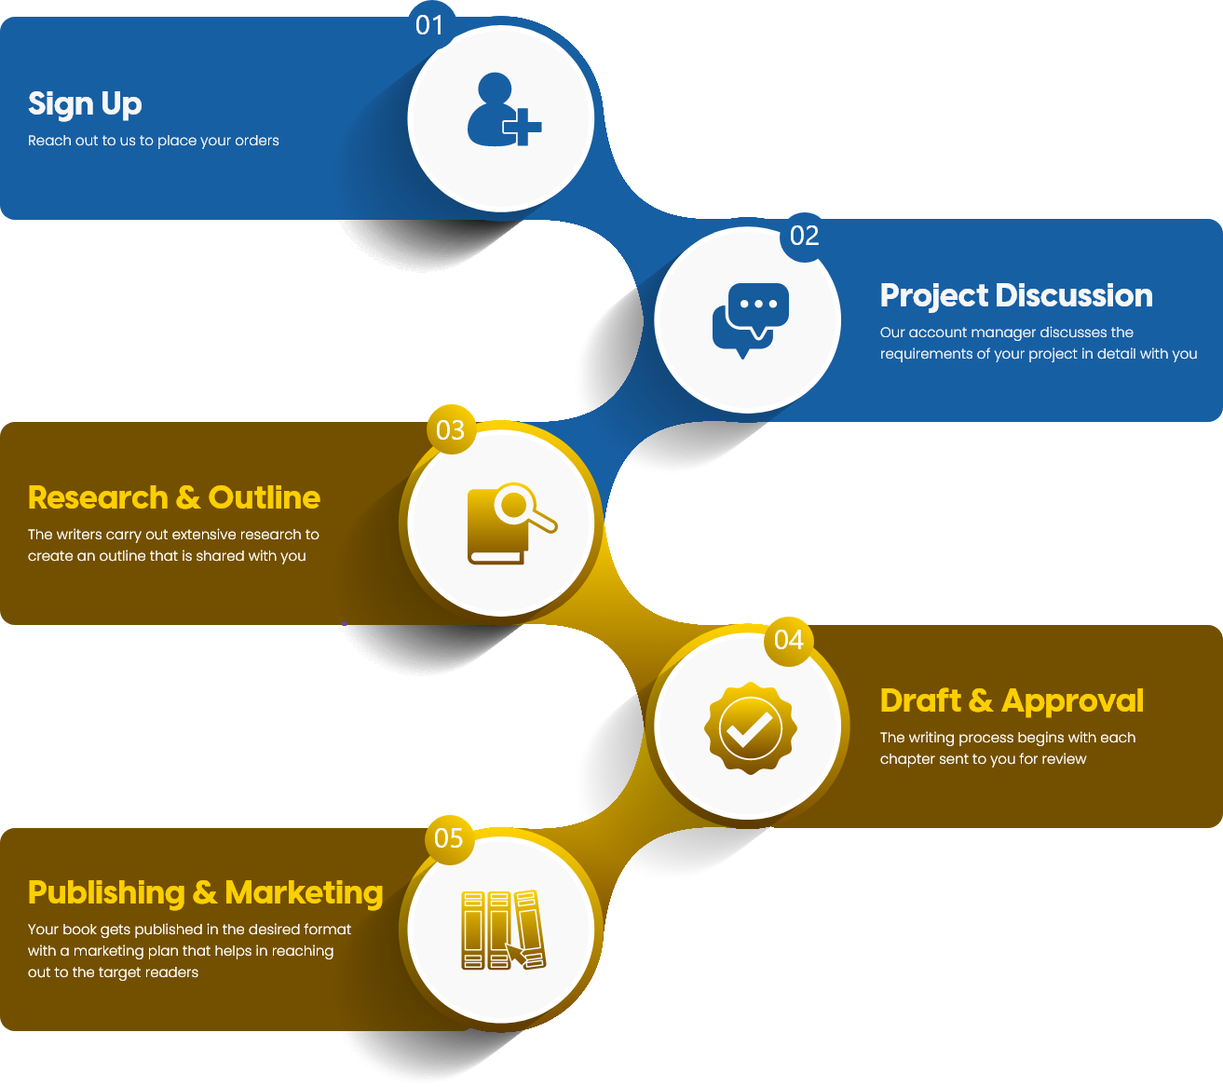
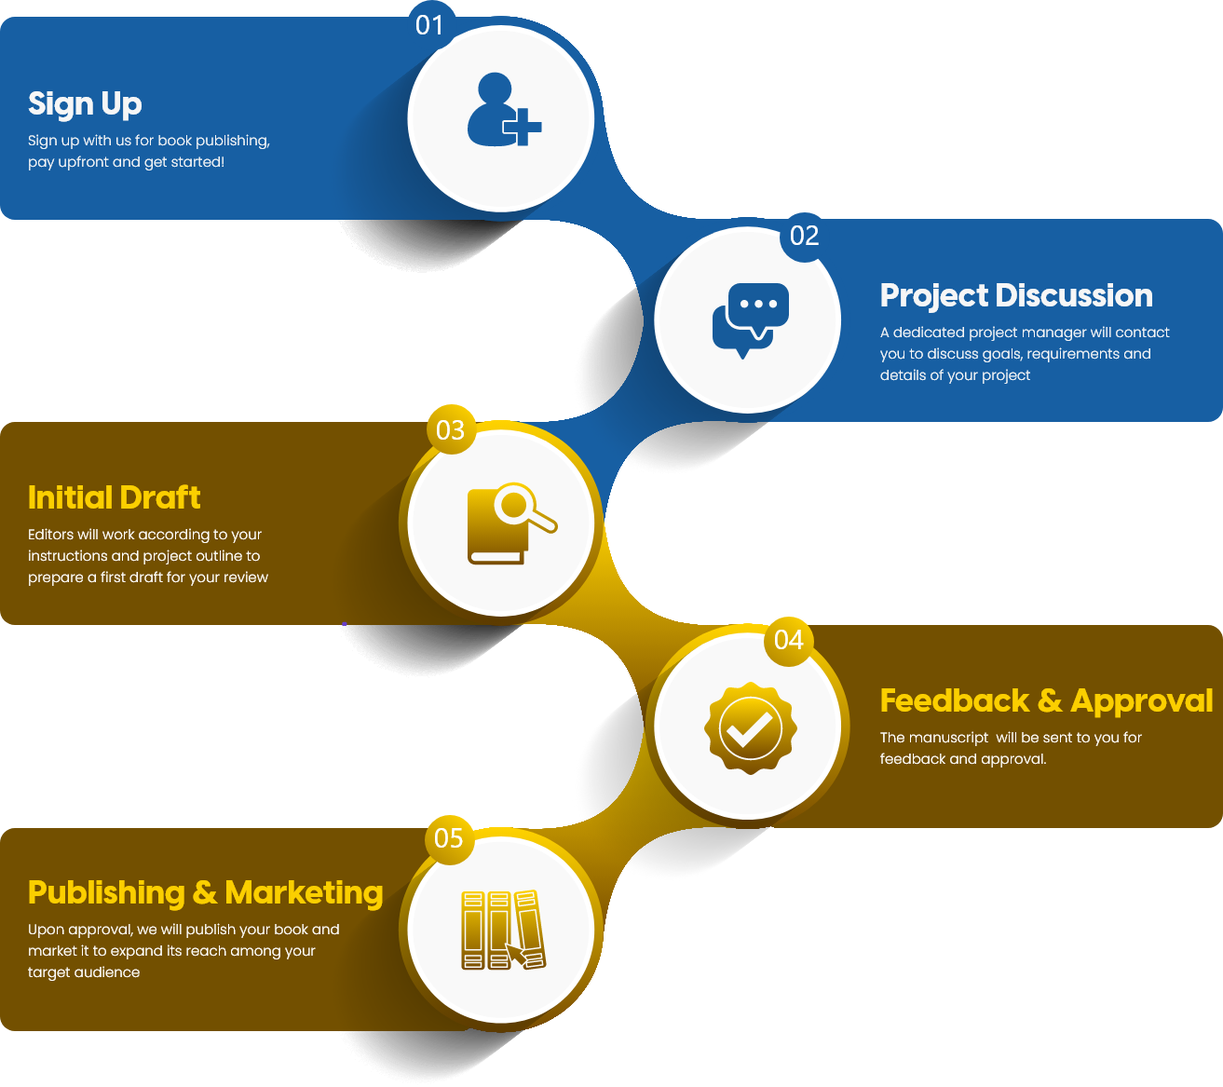
add new lg and change content

diff --git a/20-12-2023-lp/index.html b/20-12-2023-lp/index.html
@@ -26,6 +26,17 @@
 </head>
 
 <body>
+    <noscript><img height="1" width="1" style="display:none"
+            src="https://q.quora.com/_/ad/56e841106452449793188343e9307abf/pixel?tag=ViewContent&noscript=1" /></noscript>
+    <!-- End of Quora Pixel Code -->
+    <noscript><img height="1" width="1" style="display:none"
+            src="https://www.facebook.com/tr?id=446782904018039&ev=PageView&noscript=1"
+            alt="bookwritingcube.com" /></noscript>
+    <!-- Google Tag Manager (noscript) -->
+    <noscript><iframe src="https://www.googletagmanager.com/ns.html?id=GTM-KM5VM3H" height="0" width="0"
+            style="display:none;visibility:hidden"></iframe>
+    </noscript>
+    <!-- End Google Tag Manager (noscript) -->
     <!-- Header -->
     <header>
         <div class="container-fluid">
@@ -192,15 +203,14 @@
                     <div class="row">
                         <div class="col-lg-7 col-md-10 col-12">
                             <div class="__content">
-                                <span>Write, refine, and publish your book with our book publishing service in
-                                    US.</span>
-                                <h1>Tell Your Story To The World With Our <br class="d-lg-block d-none" /> Professional
-                                    Book Publishing Service </h1>
-                                <p>There are thousands of writers who pour their heart and soul into writing a
-                                    manuscript, <br /> editing it but they are not able to publish their work due to
-                                    some odd reasons, a major <br /> publishing house may have rejected them for. We
-                                    provide publishing services for those <br /> aspiring writers and make their dream
-                                    of becoming a published author come true. </p>
+                                <span>Top Book Marketing Company Trusted by Self Published Authors</span>
+                                <h1>Looking for Book Marketing Service for <br class="d-lg-block d-none" /> Your Newly
+                                    Self-Published Book?</h1>
+                                <p>Book Writing Cube is the best at making your book famous! Our team knows exactly how
+                                    <br class="d-lg-block d-none" /> to create buzz about your book among your audience.
+                                    We've got different pricing plans for <br class="d-lg-block d-none" /> new and
+                                    successful authors. It doesn't matter what kind of book you wrote, we've got amazing
+                                    <br class="d-lg-block d-none" /> ideas to make sure everyone hears about it.</p>
                                 <div class="__heroAnchor d-flex flex-md-nowrap flex-wrap mt-lg-4">
                                     <a href="#" data-toggle="modal" data-target="#mypopupdiscuss"
                                         rel="noopener noreferrer" class="__secondaryBtn">Get Free Consultation</a>
@@ -250,9 +260,10 @@
                     <div class="row">
                         <div class="col-md-10 col-12">
                             <div class="__content">
-                                <h2>Our Four Step Book Publishing Process</h2>
-                                <p>At our book publishing company, we focus on timely delivery as per agreed upon
-                                    project <br class="d-lg-block d-none" /> timeline.</p>
+                                <h2>Our Book Marketing Company Helps Readers Find <br class="d-lg-block d-none" /> Your
+                                    Book Among The Top of The Pile </h2>
+                                <p>Our book marketing service experts make sure to create a promotion strategy that
+                                    increases your book sales tremendously. </p>
                             </div>
                         </div>
                     </div>
@@ -263,9 +274,8 @@
                                     <img src="/images/ar-lp/book1.png" alt="Icons" class="d-block mx-auto img-fluid">
                                 </div>
                                 <div class="__content text-center">
-                                    <h4>Book Writing </h4>
-                                    <p>Our book writers come up <br /> with compelling narratives <br /> for your
-                                        stories</p>
+                                    <h4>Audience Research</h4>
+                                    <p>Our book marketing strategy <br /> is customized to target <br /> audience.</p>
                                 </div>
                             </div>
                         </div>
@@ -275,8 +285,8 @@
                                     <img src="/images/ar-lp/ceaser.png" alt="Icons" class="d-block mx-auto img-fluid">
                                 </div>
                                 <div class="__content text-center">
-                                    <h4>Editing</h4>
-                                    <p>Our book editors polish the <br /> books for publishing </p>
+                                    <h4>Engaging Content</h4>
+                                    <p>We create captivating <br /> book material</p>
                                 </div>
                             </div>
                         </div>
@@ -286,8 +296,8 @@
                                     <img src="/images/ar-lp/book2.png" alt="Icons" class="d-block mx-auto img-fluid">
                                 </div>
                                 <div class="__content text-center">
-                                    <h4>Book Publishing</h4>
-                                    <p>We publish the book on <br /> your desired platform</p>
+                                    <h4>Multichannel Marketing</h4>
+                                    <p>We utilize multiple channels <br /> for book marketing</p>
                                 </div>
                             </div>
                         </div>
@@ -297,8 +307,8 @@
                                     <img src="/images/ar-lp/book4.png" alt="Icons" class="d-block mx-auto img-fluid">
                                 </div>
                                 <div class="__content text-center">
-                                    <h4>Ebook Writing</h4>
-                                    <p>We make your book accessible <br /> to readers globally </p>
+                                    <h4>Ebook Sales</h4>
+                                    <p>We Track progress and adjust <br /> strategy to increase book <br /> sales</p>
                                 </div>
                             </div>
                         </div>
@@ -312,10 +322,10 @@
                     <div class="row align-items-center">
                         <div class="col-lg-7 col-md-6 col-12">
                             <div class="__content">
-                                <h2>Providing the Best Publishing Services</h2>
-                                <h3>Our Book Publishing Company Is a Top Solution For Professional Publishing</h3>
-                                <p>We are honored to serve you with the best publishing services in the US, all you have
-                                    to do is reach out to us!</p>
+                                <h2>Spread the Word About Your Book</h2>
+                                <h3>Hire us to tell everyone your book is now available to read!</h3>
+                                <p>Our book marketing experts make your ebook visible to your target audience and spark
+                                    their interest to buy, read and review your book on digital platforms.</p>
                                 <div class="__whoKnowsBtn d-flex flex-lg-nowrap flex-wrap">
                                     <a href="#" data-toggle="modal" data-target="#mypopupdiscuss"
                                         rel="noopener noreferrer" class="__secondaryBtn">Get Free Proposal</a>
@@ -346,8 +356,8 @@
                                 <h2>We Tell Your Story <br class="d-lg-block d-none" /> To The World </h2>
                                 <p>Sign up now to avail up to 30% Off on our publishing packages.</p>
                                 <div class="__wordsYouThoughtsBtn d-flex flex-lg-nowrap flex-wrap">
-                                    <a href="#" data-toggle="modal" data-target="#mypopupdiscuss"
-                                        rel="noopener noreferrer" class="__secondaryBtn">Get Free Consultation</a>
+                                    <a href="#" data-toggle="modal" data-target="#mypopupdiscuss" rel="noopener"
+                                        class="__secondaryBtn">Get Free Consultation</a>
                                     <a href="javascript:;" class="__primaryBtn"
                                         onclick="parent.LC_API.open_chat_window();return false;">Publish My Book</a>
                                 </div>
@@ -376,9 +386,9 @@
                     <div class="row">
                         <div class="col-12">
                             <div class="__content text-center">
-                                <h2>Contact our Book Publishing Company</h2>
-                                <p>Let us guide you to choose the most suitable publishing package and platform for your
-                                    book.</p>
+                                <h2>Contact our Book Marketing Company</h2>
+                                <p class="mb-3">Let us guide you to choose the most suitable book marketing package and
+                                    <br /> platform for your ebook.</p>
                                 <a href="javascript:;" class="__primaryBtn"
                                     onclick="parent.LC_API.open_chat_window();return false;">Let's Discuss</a>
                             </div>
@@ -403,7 +413,7 @@
                                 <img src="/images/ar-lp/book-writing .png" alt="Icons" class="d-block mx-auto">
                                 <div class="__content text-center">
                                     <h4>Ebook Publishing</h4>
-                                    <p>Publish your ebooks effortlessly with us</p>
+                                    <p>Market your ebooks with us on a budget</p>
                                 </div>
                             </div>
                         </div>
@@ -412,7 +422,7 @@
                                 <img src="/images/ar-lp/trade-books.png" alt="Icons" class="d-block mx-auto">
                                 <div class="__content text-center">
                                     <h4>Autobiographies</h4>
-                                    <p>We make your life a published masterpiece</p>
+                                    <p>We introduce your life stories to the world</p>
                                 </div>
                             </div>
                         </div>
@@ -421,7 +431,7 @@
                                 <img src="/images/ar-lp/magazines.png" alt="Icons" class="d-block mx-auto">
                                 <div class="__content text-center">
                                     <h4>Children Books</h4>
-                                    <p>Kids’ stories made into magical books</p>
+                                    <p>Spread the word about kids’ new best reads</p>
                                 </div>
                             </div>
                         </div>
@@ -430,7 +440,7 @@
                                 <img src="/images/ar-lp/photo-books.png" alt="Icons" class="d-block mx-auto">
                                 <div class="__content text-center">
                                     <h4>Photo Books</h4>
-                                    <p>Turn your memories into photo books with us</p>
+                                    <p>Promote your photo books with us across social media</p>
                                 </div>
                             </div>
                         </div>
@@ -439,7 +449,7 @@
                                 <img src="/images/ar-lp/flip books.png" alt="Icons" class="d-block mx-auto">
                                 <div class="__content text-center">
                                     <h4>Fiction Books</h4>
-                                    <p>Share your imaginative tales with readers globally</p>
+                                    <p>Share your imaginative tales with readers worldwide</p>
                                 </div>
                             </div>
                         </div>
@@ -453,8 +463,8 @@
                     <div class="row">
                         <div class="col-12">
                             <div class="__content text-center">
-                                <h2>Publishing Portfolio</h2>
-                                <p>Books we’ve published over the course of a decade.</p>
+                                <h2>Books Marketing Portfolio</h2>
+                                <p>Books we’ve promoted over the course of a decade</p>
                             </div>
                             <div class="row __pfImage1">
                                 <div class="col-10 mx-auto">
@@ -539,12 +549,12 @@
                     <div class="row">
                         <div class="col-12">
                             <div class="__content text-center">
-                                <h2>Our Onboarding Process for Book Publishing Projects</h2>
+                                <h2>Book Marketing Process at Book Writing Cubes</h2>
                                 <p>We follow a well thought out streamlined process to ensure smooth delivery of every
-                                    book publishing project.</p>
+                                    book <br /> publishing project. </p>
                             </div>
                             <div class="__workProcessImage">
-                                <img src="/images/ar-lp/workProcess.png" alt="Icons" class="img-fluid d-block mx-auto">
+                                <img src="/images/ar-lp/workProcess2.png" alt="Icons" class="img-fluid d-block mx-auto">
                             </div>
                         </div>
                     </div>
@@ -558,10 +568,10 @@
                         <div class="col-lg-6 col-12">
                             <div class="__content">
                                 <h2>Got a Story to Tell?</h2>
-                                <p>Contact us to publish your book and share it with the world!</p>
+                                <p>Contact us to market your book and share it with the world!</p>
                                 <div class="__storyPublisherBtn d-flex flex-lg-nowrap flex-wrap">
-                                    <a href="#" data-toggle="modal" data-target="#mypopupdiscuss"
-                                        rel="noopener noreferrer" class="__secondaryBtn">Get Free Consultation</a>
+                                    <a href="#" data-toggle="modal" data-target="#mypopupdiscuss" rel="noopener"
+                                        class="__secondaryBtn">Get Free Consultation</a>
                                     <a href="javascript:;" class="__primaryBtn"
                                         onclick="parent.LC_API.open_chat_window();return false;">Publish My Book</a>
                                 </div>
@@ -598,12 +608,11 @@
                     <div class="row align-items-center">
                         <div class="col-lg-6 col-12">
                             <div class="__content">
-                                <h2>Authors Success Stories in <br class="d-lg-block d-none" /> Their Own Words</h2>
-                                <p>We’re the go-to book publishing company for all the aspiring authors in the US. Our
-                                    authors are super happy with the books we helped to publish! They gave us their
-                                    stories, and when they talk about how much they love their books, it shows they
-                                    really appreciate our efforts for making their ideas real, readable for the readers
-                                    worldwide. </p>
+                                <h2>Authors Success Stories in Their Own Words </h2>
+                                <p>We're the top choice for book marketing company among aspiring authors across the US.
+                                    Our authors are thrilled with the books we've helped them to market on various
+                                    digital platforms. Their reviews for our book marketing service are a testament to
+                                    how much they value our role in making their books visible to readers online.</p>
                             </div>
                         </div>
                         <div class="col-lg-6 col-12">
@@ -611,52 +620,45 @@
                                 <div class="__reviewCard">
                                     <img src="/images/ar-lp/Trustpilot_Logo_(2022).svg (1).png" alt="Icons"
                                         class="img-fluid d-block mx-auto mb-3">
-                                    <p>This was my first experience in publishing a book. Words cannot express how
-                                        grateful I am for Book Writing Cube. Everyone I worked with was tremendous, from
-                                        start to finish. The team worked so well together and with me. Making the
-                                        process so much easier than I ever could have imagined. Their expertise
-                                        certainly is certainly evident in the final product, a book we may all take
-                                        pride in. I know it certainly made an impact on readers and believe there are
-                                        many more to come. I'll be forever grateful. With Sincere gratitude, Todd.</p>
-                                    <h5>Todd R Schulze</h5>
+                                    <p>For my psycho killer novel, I was looking for an incredible book marketing
+                                        company, and Book Writing Cube was the perfect fit. Their marketing strategy
+                                        brilliantly captured the essence and increased my book sales. I couldn't be much
+                                        happier with the result of their book marketing efforts, superb job!</p>
+                                    <h5>Abigail Smith</h5>
                                     <img src="/images/ar-lp/Star.png" alt="Icons" class="d-block mx-auto">
                                 </div>
                                 <div class="__reviewCard">
                                     <img src="/images/ar-lp/Trustpilot_Logo_(2022).svg (1).png" alt="Icons"
                                         class="img-fluid d-block mx-auto mb-3">
-                                    <p>This was my first book to be published, I was extremely nervous, I wasn’t sure I
-                                        could trust the company I was sending my money to. Book Writing Cube has
-                                        EXCEEDED my expectations. Mark and his team are/were very attentive to my
-                                        requests, they have presented several illustrations based on my vision, they
-                                        have edited and presented ideas to make my story stronger, I could not be more
-                                        pleased with their honesty and their commitment. Getting a book published is no
-                                        easy task and I have procrastinated for years due to uncertainty. I’m now
-                                        relieved that I trusted this team to do as they said and they have.</p>
-                                    <h5>Elizabeth Waldorf</h5>
+                                    <p>Right from our initial discussions, Book Writing Cube showed a keen understanding
+                                        of the essence of my book. Color, typography, and imagery were both creative and
+                                        eye-catching, making it an actual work of art. I also bought their book
+                                        marketing services along with cover design and I absolutely loved how Mark was
+                                        so helpful throughout the journey. Honestly, I would recommend Book Writing Cube
+                                        to everyone who wants to market their book.</p>
+                                    <h5>Daniel Pope</h5>
                                     <img src="/images/ar-lp/Star.png" alt="Icons" class="d-block mx-auto">
                                 </div>
                                 <div class="__reviewCard">
                                     <img src="/images/ar-lp/Trustpilot_Logo_(2022).svg (1).png" alt="Icons"
                                         class="img-fluid d-block mx-auto mb-3">
-                                    <p>I was looking for a service to help me publish my book about information
-                                        technology and Book Writing Cube answered my needs. Jasmine and Paul especially
-                                        made a difference by assisting me every step of the way. They were always ready
-                                        to help and had answers to my questions. The creative staff did a wonderful job
-                                        with the book cover and Paul handled the final steps with Amazon extremely well.
-                                        If you’re looking to publish a technical book or reference materials, I
-                                        encourage you to check out Book Writing Cube.</p>
-                                    <h5>Richard J Reese</h5>
+                                    <p>I hired Book Writing Cube for my writing and marketing needs. Their team examined
+                                        the basic foundations of my story, fixed grammar issues, and marketed my book
+                                        without diminishing its core. When I saw my book marketing results, I was
+                                        surprised with the efforts this company had made. Totally recommended!</p>
+                                    <h5>George Johnston</h5>
                                     <img src="/images/ar-lp/Star.png" alt="Icons" class="d-block mx-auto">
                                 </div>
                                 <div class="__reviewCard">
                                     <img src="/images/ar-lp/Trustpilot_Logo_(2022).svg (1).png" alt="Icons"
                                         class="img-fluid d-block mx-auto mb-3">
-                                    <p>The team at The Book Writing Cube went above and beyond to make major changes in
-                                        the story structure, character development, and writing style. Their dedication
-                                        to creating a strong and compelling book was evident from the start. If you're
-                                        looking for a partner to help you write a book that steals the audience's
-                                        attention, look no further than Book Writing Cube.</p>
-                                    <h5>Robert Pope</h5>
+                                    <p>Book writing Cube has been very helpful and super professional. They helped build
+                                        my social media platform, manage marketing, and build my author website. My
+                                        project manager Janet is very well versed in what she does. She responds to
+                                        emails without any delays and always finds solutions to any problem. I highly
+                                        recommend book writing cube to any author who is looking for a marketing company
+                                        that can help along the way.</p>
+                                    <h5>Musselmani Rana</h5>
                                     <img src="/images/ar-lp/Star.png" alt="Icons" class="d-block mx-auto">
                                 </div>
                             </div>

diff --git a/20-12-2023-lp/js/publishing-card.js b/20-12-2023-lp/js/publishing-card.js
@@ -1,0 +1,10 @@
+if ($(window).width() < 768) {
+    $('.__publishingSlider').slick({
+        dots: false,
+        infinite: true,
+        arrows: false,
+        speed: 300,
+        slidesToShow: 1,
+        slidesToScroll: 1,
+    });
+}

diff --git a/20-12-2023-lp/js/portfolio.js b/20-12-2023-lp/js/portfolio.js
@@ -1,0 +1,10 @@
+if ($(window).width() < 768) {
+    $('.__portfolioSlider').slick({
+        dots: false,
+        infinite: true,
+        arrows: false,
+        speed: 300,
+        slidesToShow: 1,
+        slidesToScroll: 1,
+    });
+}

diff --git a/20-12-2023-lp/js/review-card.js b/20-12-2023-lp/js/review-card.js
@@ -3,8 +3,7 @@ $('.__reviewSlider').slick({
     infinite: true,
     arrows: true,
     centerMode: false,
-    // autoplay: true,
-    adaptiveHeight: true,
+    autoplay: true,
     speed: 300,
     slidesToShow: 2,
     slidesToScroll: 1,

diff --git a/20-12-2023-lp/js/rounded-box.js b/20-12-2023-lp/js/rounded-box.js
@@ -1,0 +1,10 @@
+if ($(window).width() < 768) {
+    $('.__circleSlider').slick({
+        dots: false,
+        infinite: true,
+        arrows: false,
+        speed: 300,
+        slidesToShow: 1,
+        slidesToScroll: 1,
+    });
+}
